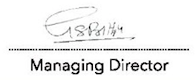
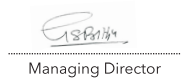
Add files via upload

diff --git a/style.css b/style.css
@@ -17,7 +17,7 @@ body
     border: 4px solid red;
     height: auto;
     width: 1100px;
-    height: 690px;
+    height: 770px;
 }
 
 .middle
@@ -28,18 +28,18 @@ body
 
 h1
 {
-    font-size: 65px;
+    font-size: 70px;
     text-transform: uppercase;
     font-family: c;
-    letter-spacing: 1px;
-    margin-top: -20px;
+    letter-spacing: 3px;
+    margin-top: px;
 }
 h2
 {
-    font-size: 35px;
+    font-size: 30px;
     text-transform: uppercase;
     font-family:c;
-    letter-spacing: 0.1px;
+    letter-spacing: 1px;
     padding: 1px;
     margin-top: -15px;
 }
@@ -81,19 +81,20 @@ h2
 .txt
 {
     text-transform: uppercase;
-    font-size: 15px;
+    font-size: 20px;
     margin-top: -10px;
     font-family:;
     color: white;
-    font-weight: 800;
+    font-weight: 400;
     width: auto;
-    letter-spacing: 1px;
+    letter-spacing: 2px;
     padding-left: -1px;
     margin: auto;
     align-content: center;
     background: red;
-    padding: 8px;
+    padding: 10px;
     display: inline-block;
+    width: 620px;
 }
 
 
@@ -107,7 +108,7 @@ h2
 }
 .new1
 {
-    margin-top: 135px;
+    margin-top: 155px;
     width:auto;
     border-top: 1.5px solid brown; 
     margin-left: -10px;

diff --git a/index.html b/index.html
@@ -15,8 +15,8 @@
     <div class="content">
         <div class="head">
             <div class="headers">
-                <img src="images/amzlogo.png" style="float: left;width: 140px;">
-                <img src="images/rcdc2019.png" style="float: right;width:140px;">
+                <img src="images/amzlogo.png" style="float: left;width: 235px;">
+                <img src="images/rdc.png" style="float: right;width:245px;">
             </div>
 
         </div>
@@ -50,8 +50,8 @@
         
         <div class="lowerImage">
                 <div class="lower">
-                        <img src="images/director.png" style="float: left;margin-left: 40px;width: 140px">
-                        <img src="images/badge.png" style="float: right;margin-right: 40px;width: 100px">
+                        <img src="images/director.png" style="float: left;margin-left: 50px;width: 172px;margin-top: 25px">
+                        <img src="images/badge.png" style="float: right;margin-right: 40px;width: 140px">
                 </div>
         </div>
         
